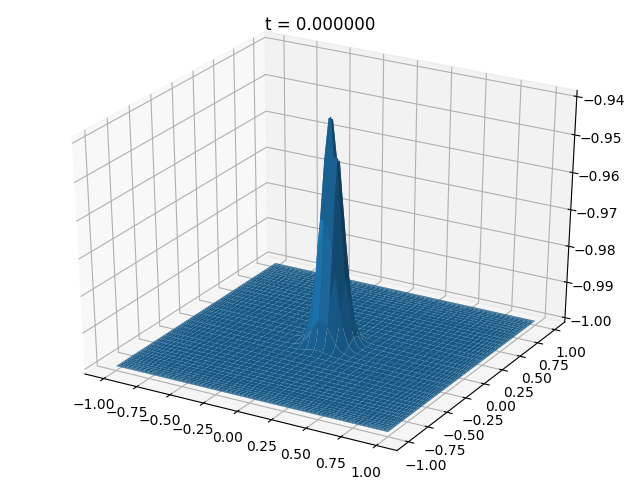
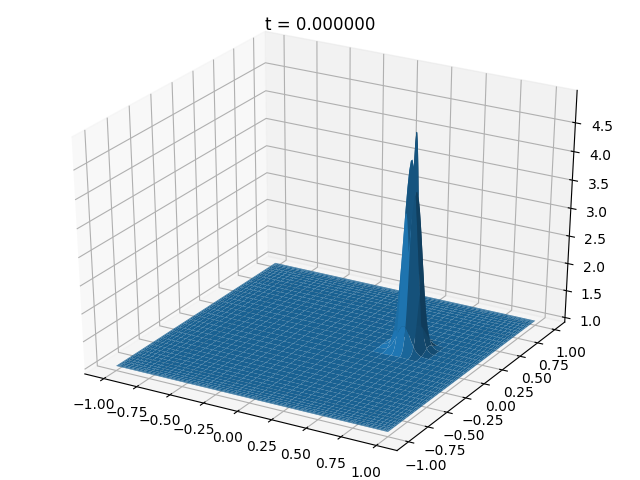
Chebyshev Differentiation of Shallow Water Equations with a perturbation of fluid

diff --git a/NEW_3_18_20_Gaussian.py b/NEW_3_18_20_Gaussian.py
@@ -163,20 +163,7 @@ def vortex(N,tmax,nmax,dt,g1,M,g,U0,V0,H0):
     
       # on hu
          
-    U[0,:,2] = 0#  U[-1,:,1]
-        
-    U[-1,:,2] =  0#U[0,:,1]
-  #  U[:,0,2] = 0#  U[-1,:,1]
-        
-   # U[:,-1,2] =  0#U[0,:,1]
-           
-           
-       
-        # on hu
-           
-    U[:,0,1] =  0#U[-1,:,2]
-    U[:,-1,1] = 0# U[0,:,2
-  #  U[:,0,1] = 0#  U[-1,:,1]
+    
         
    # U[:,-1,1] =  0#U[0,:,1]
     n=0
@@ -266,6 +253,15 @@ def vortex(N,tmax,nmax,dt,g1,M,g,U0,V0,H0):
             ax.plot_surface(xx,yy,z)
             ax.set_title("t = %f"%(t))
             plt.show()
+        if t==.01:
+            fig = plt.figure()
+            ax = Axes3D(fig)
+            z = real(U[:,:,0])
+            y = x
+            ax.plot_surface(xx,yy,z)
+            ax.set_title("t = %f"%(t))
+            plt.show()
+     
         if t==.05:
             fig = plt.figure()
             ax = Axes3D(fig)
@@ -274,23 +270,7 @@ def vortex(N,tmax,nmax,dt,g1,M,g,U0,V0,H0):
             ax.plot_surface(xx,yy,z)
             ax.set_title("t = %f"%(t))
             plt.show()
-        if t==.5:
-            fig = plt.figure()
-            ax = Axes3D(fig)
-            z = real(U[:,:,0])
-            y = x
-            ax.plot_surface(xx,yy,z)
-            ax.set_title("t = %f"%(t))
-            plt.show()
-        if t==1.0:
-            fig = plt.figure()
-            ax = Axes3D(fig)
-            z = real(U[:,:,0])
-            y = x
-            ax.plot_surface(xx,yy,z)
-            ax.set_title("t = %f"%(t))
-            plt.show()
-        if t==1.3:
+        if t==.09:
             fig = plt.figure()
             ax = Axes3D(fig)
             z = real(U[:,:,0])
@@ -298,7 +278,7 @@ def vortex(N,tmax,nmax,dt,g1,M,g,U0,V0,H0):
             ax.plot_surface(xx,yy,z)
             ax.set_title("t = %f"%(t))
             plt.show() 
-        if t==1.35:
+        if t==.1:
             fig = plt.figure()
             ax = Axes3D(fig)
             z = real(U[:,:,0])
@@ -306,7 +286,7 @@ def vortex(N,tmax,nmax,dt,g1,M,g,U0,V0,H0):
             ax.plot_surface(xx,yy,z)
             ax.set_title("t = %f"%(t))
             plt.show()
-        if t==1.4:
+        if t==.11:
             fig = plt.figure()
             ax = Axes3D(fig)
             z = real(U[:,:,0])
@@ -314,7 +294,7 @@ def vortex(N,tmax,nmax,dt,g1,M,g,U0,V0,H0):
             ax.plot_surface(xx,yy,z)
             ax.set_title("t = %f"%(t))
             plt.show()   
-        if t==1.45:
+        if t==.12:
             fig = plt.figure()
             ax = Axes3D(fig)
             z = real(U[:,:,0])
@@ -322,7 +302,7 @@ def vortex(N,tmax,nmax,dt,g1,M,g,U0,V0,H0):
             ax.plot_surface(xx,yy,z)
             ax.set_title("t = %f"%(t))
             plt.show() 
-        if t==1.5:
+        if t==.13:
             fig = plt.figure()
             ax = Axes3D(fig)
             z = real(U[:,:,0])
@@ -330,15 +310,7 @@ def vortex(N,tmax,nmax,dt,g1,M,g,U0,V0,H0):
             ax.plot_surface(xx,yy,z)
             ax.set_title("t = %f"%(t))
             plt.show()
-        if t==1.55:
-            fig = plt.figure()
-            ax = Axes3D(fig)
-            z = real(U[:,:,0])
-            y = x
-            ax.plot_surface(xx,yy,z)
-            ax.set_title("t = %f"%(t))
-            plt.show()                   
-                                      
+                       
            
         F,G = convert(U,F,G,N,tmax,t,g1,M,g) 
         n = n+1
@@ -349,24 +321,7 @@ def vortex(N,tmax,nmax,dt,g1,M,g,U0,V0,H0):
           # on hu
           
            
-        U[0,:,2] = 0#  U[-1,:,1]
-        U[1,:,2] = 0
-        U[-1,:,2] =  0#U[0,:,1]
-        U[-2,:,2] = 0
-        U[:,0,2] = 0#  U[-1,:,1]
-        U[:,1,2] = 0
-        U[:,-1,2] =  0#U[0,:,1]
-        U[:,-2,2] = 0
-        # on hu
-           
-        U[0,:,1] = 0#  U[-1,:,1]
-        U[1,:,1] = 0
-        U[-1,:,1] =  0#U[0,:,1]
-        U[-2,:,1] = 0
-        U[:,0,1] = 0#  U[-1,:,1]
-        U[:,1,1] = 0
-        U[:,-1,1] =  0#U[0,:,1]
-        U[:,-2,1] = 0
+        
                                                                                                              
             
     return U,U_euler 
@@ -380,12 +335,12 @@ linf_euler = np.zeros(1)
 N= np.zeros(1)
 k=0
 
-tmax=1.55#.01#.01 is good 
-NN=100
+tmax=.13#1.55#.01#.01 is good 
+NN=256
 print (NN)
 x = np.cos(pi*arange(0,NN)/NN); 
 y=x
-g=1.5  #acceleration due to gravity
+g=9.8  #acceleration due to gravity
 g1=.5
 M=.08
 m = NN
@@ -398,11 +353,23 @@ dy=dx
 
 def gauss_swe(sig,NN):
         
-        x = np.linspace(-sig*1.5,sig*1.5,NN+1)
-        dist = np.diff(st.norm.cdf(x))
-        gauss = np.outer(dist, dist)
-        gauss2 = gauss/gauss.sum()
-        return gauss2
+    
+        x = np.cos(pi*arange(0,NN)/NN); 
+        dx=np.abs(x[1]-x[0])
+        dy=dx
+        y = x
+        M =.08#
+        g =-50.0#.
+        c1=200.0
+        c2=100.0
+        alpha= 4*np.pi
+        x_o=.5#
+        y_o=.2#
+        [xx,yy] = np.meshgrid(x,y)
+        f = lambda t,xx,yy: -c2*((xx-x_o-M*t*np.cos(alpha))**2+(yy-y_o-M*t*np.sin(alpha))**2)  
+        H0 = 1 - (c1**2/(4*c2*g))*np.exp(2*f(0.0,xx,yy))
+       
+        return H0
     
 
 H0 = gauss_swe(15,NN)
@@ -424,34 +391,6 @@ k = k + 1
 
 
 
-
-
-
-
-    
-fig = plt.figure()
-axes = fig.add_subplot(1, 1, 1)
-sol_plot = axes.pcolor(H0, cmap=plt.get_cmap('RdBu_r'))
-cbar = fig.colorbar(sol_plot)  
-axes.set_title("H") 
-plt.show() 
-
-fig = plt.figure()
-axes = fig.add_subplot(1, 1, 1)
-sol_plot = axes.pcolor(real(U[:,:,0]), cmap=plt.get_cmap('RdBu_r'))
-cbar = fig.colorbar(sol_plot)  
-axes.set_title("H computed T = .005") 
-plt.show() 
-
-
-
-fig = plt.figure()
-ax = Axes3D(fig)
-z = real(H0)
-y = x
-ax.plot_surface(xx,yy,z)
-ax.set_title('3D line plot')
-plt.show()
 
 fig = plt.figure()
 ax = Axes3D(fig)
